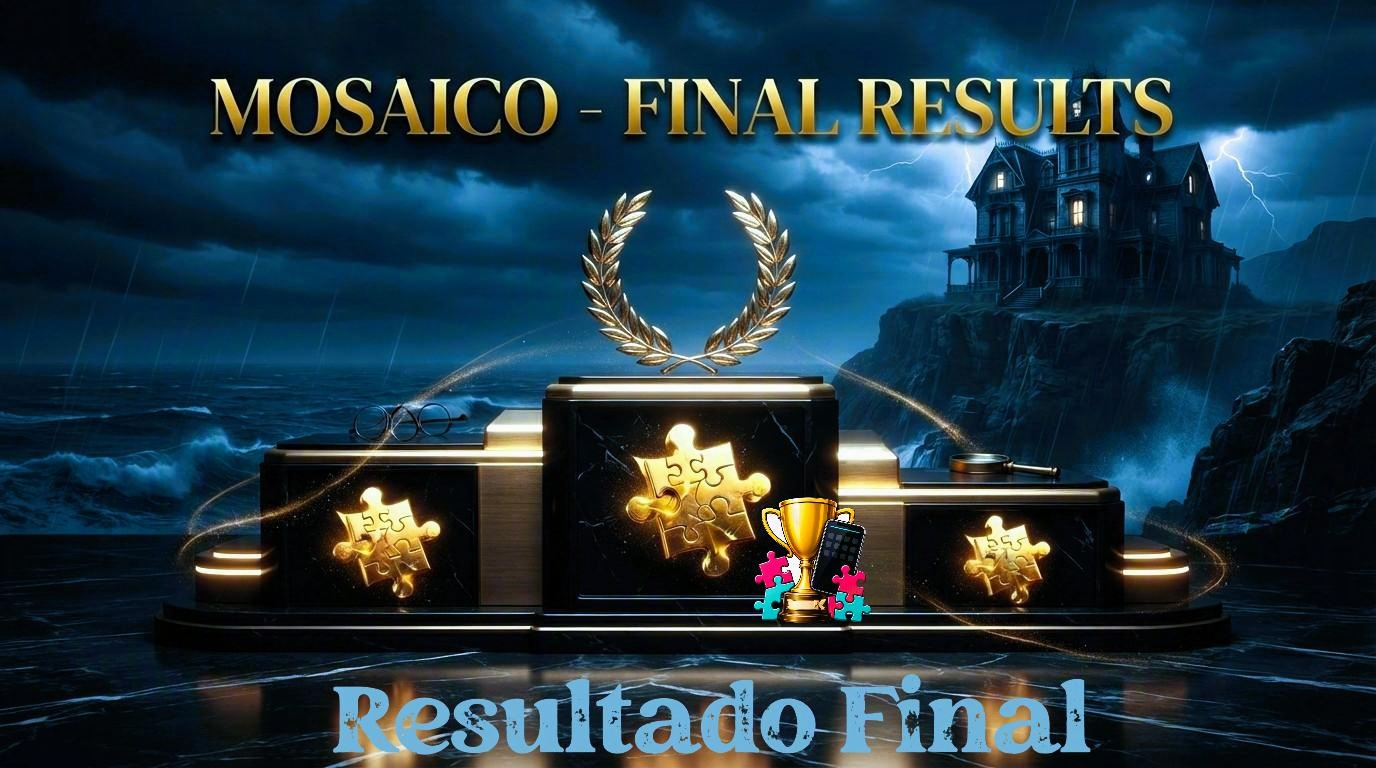
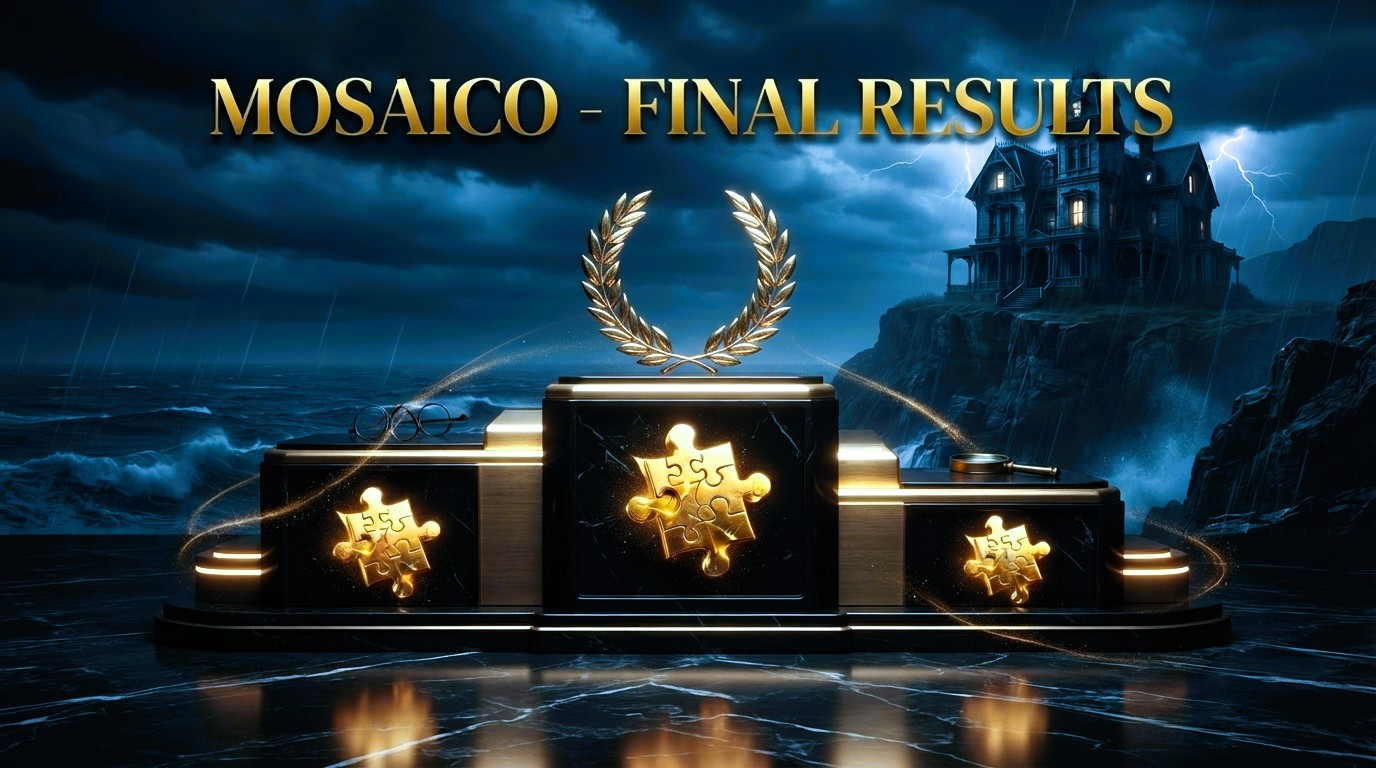
Amplia pódio final e atualiza arte do telão

Changed region(s): [[0.2188, 0.875, 0.8125, 1.0], [0.5312, 0.625, 0.6562, 0.8125]]

diff --git a/MOSAICO-mesa.html b/MOSAICO-mesa.html
@@ -372,6 +372,12 @@
   .podio-jogador .colocacao{font:700 clamp(9px,2.3vw,13px) var(--sans);color:var(--ambar);letter-spacing:.08em;text-transform:uppercase}
   .podio-layout.celular .pos-1{left:37.5%;top:45%}.podio-layout.celular .pos-2{left:9%;top:64%}.podio-layout.celular .pos-3{right:8%;top:68%}
   .podio-layout.telao .podio-jogador{width:19%;padding:6px 4px}.podio-layout.telao .pos-1{left:40.5%;top:50%}.podio-layout.telao .pos-2{left:16%;top:63%}.podio-layout.telao .pos-3{right:14%;top:63%}
+  body.resultado-podio #app.largo{width:100%;max-width:none;padding:10px 2vw 16px}
+  body.resultado-podio #app.largo>.rodada-telao,
+  body.resultado-podio .revelacao-final>.eyebrow{display:none}
+  body.resultado-podio .revelacao-final{width:100%;max-width:96vw}
+  body.resultado-podio .podio-layout.telao{grid-template-columns:minmax(0,1fr) minmax(220px,280px);gap:14px;margin-top:0}
+  body.resultado-podio .podio-layout.telao .podio-jogador{padding:8px 6px}
   .classificacao-restante{border:1px solid var(--linha);border-radius:9px;background:rgba(12,18,26,.94);padding:12px}.classificacao-restante h3{font-size:17px;margin:2px 0 10px;color:var(--ambar)}
   .classificacao-item{display:grid;grid-template-columns:30px 34px minmax(0,1fr) auto;align-items:center;gap:7px;padding:9px 2px;border-bottom:1px solid var(--linha)}.classificacao-item:last-child{border-bottom:0}.classificacao-item .ordem{color:var(--ambar);font-weight:700}.classificacao-item .avatar{font-size:22px}.classificacao-item .nome{font:700 13px var(--sans);line-height:1.1}.classificacao-item .papel{display:block;color:var(--dim);font:600 11px var(--serif);margin-top:2px}.classificacao-item .pontos{font-weight:700;color:var(--frio);white-space:nowrap}
   .podio-layout.celular .classificacao-restante{width:min(100%,560px);margin:14px auto 0}
@@ -1735,6 +1741,8 @@ function render(forcar){
     STATE.tela==="constelacao" || STATE.tela==="inclinacao");
   document.body.classList.toggle("painel-em-jogo",
     STATE.tela==="painel" && faseAgora!=="sala" && faseAgora!=="resultado");
+  document.body.classList.toggle("resultado-podio",
+    STATE.tela==="painel" && faseAgora==="resultado" && etapaRevelacao()>=4);
   document.body.classList.toggle("encenacao-passiva",encenacaoPassiva);
   var emBuscaFragmento=STATE.tela==="mosaico"&&faseAgora==="mosaico"&&!(STATE.doc&&STATE.doc.fragmentosLiberados);
   document.body.classList.toggle("busca-fragmento",emBuscaFragmento);
